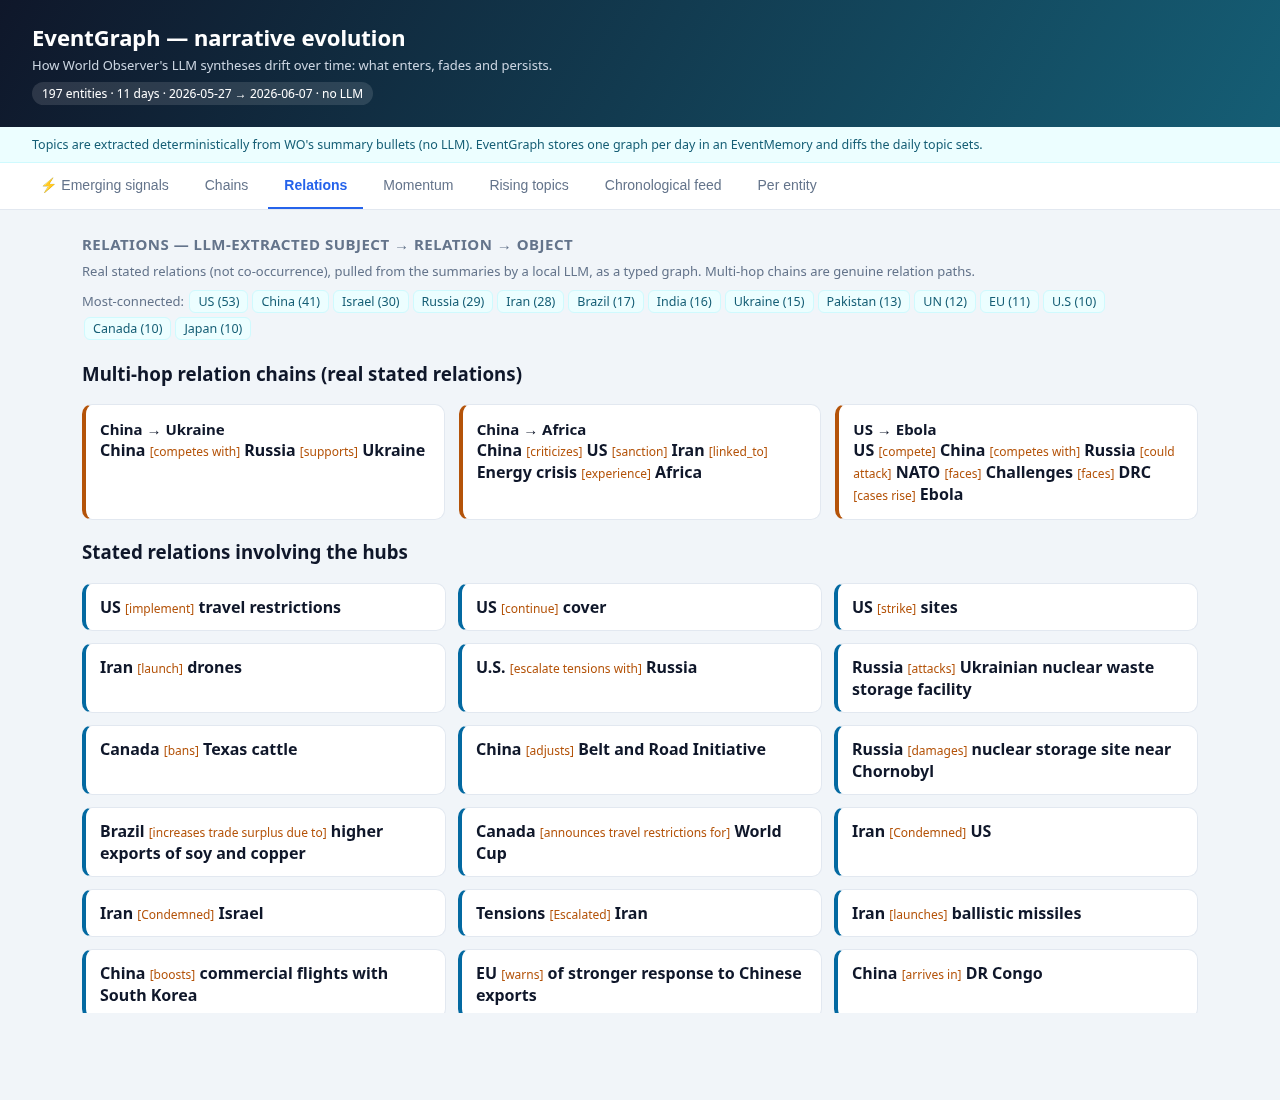
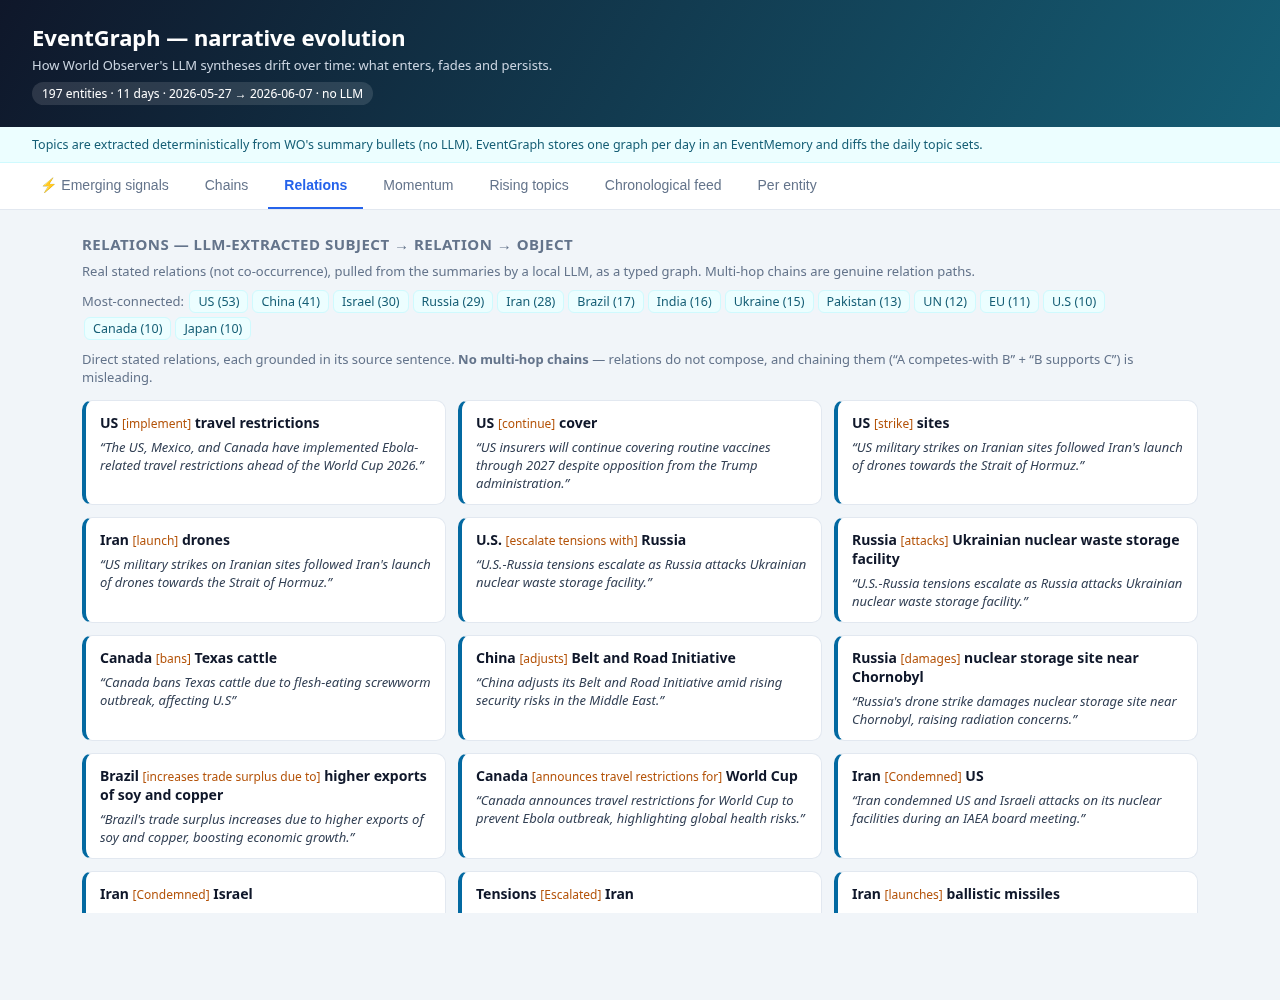
fix: drop misleading multi-hop relation chains; ground direct relations
Caught by review: the chain "China —competes with→ Russia —supports→ Ukraine" is
doubly broken — (1) "Russia supports Ukraine" is a context-stripped extraction
error (from the Austria summary; the real ukraine_russia summary says Russia
*attacks* Ukraine), and (2) relations don't compose: A-rel-B + B-rel-C implies
nothing about A→C. The arrow lied.

- Removed multi-hop "chains" from the report and the dashboard Relations tab.
- Every direct relation is now GROUNDED in its source sentence (ground() /
  grounded_relations()), so extraction errors are visible and verifiable.
- relation_graph.py --between kept as a raw graph utility but clearly labelled
  "connectivity, not implication — relations do not compose".

Honest: LLM relation extraction is useful for *direct* grounded relations, not
for transitive multi-hop reasoning.

diff --git a/examples/relation_graph.py b/examples/relation_graph.py
@@ -13,16 +13,60 @@ from __future__ import annotations
 
 import argparse
 import json
+import re
 import sys
 from itertools import pairwise
 from pathlib import Path
 
 sys.path.insert(0, str(Path(__file__).parent))
 
+from narrative_evolution import DATA as NARRATIVE_DATA
+
 from eventgraph import Actor, EventGraph, Relation, RelationType
 
 DATA = Path(__file__).parent / "data" / "world_observer_relations.json"
 REPORT = Path("reports") / "world_observer_relations.md"
+
+_NARR: dict[str, dict[str, str]] | None = None
+
+
+def _narratives() -> dict[str, dict[str, str]]:
+    global _NARR
+    if _NARR is None:
+        hist = json.loads(NARRATIVE_DATA.read_text(encoding="utf-8"))
+        _NARR = {e["key"]: e["by_day"] for e in hist}
+    return _NARR
+
+
+def ground(triple: dict) -> str:
+    """The source sentence behind a triple — lets you verify it (and catch errors)."""
+    text = _narratives().get(triple["source"], {}).get(triple["day"], "")
+    chunks = [" ".join(c.split()) for c in re.split(r"(?:\n|- |\. )", text) if c.strip()]
+    both = [c for c in chunks if triple["subject"] in c and triple["object"] in c]
+    one = [c for c in chunks if triple["subject"] in c]
+    pick = (both or one or [""])[0]
+    return pick[:200]
+
+
+def grounded_relations(
+    triples: list[dict], n: int = 24, *, involving: set[str] | None = None
+) -> list[dict]:
+    """Direct relations with their source sentence; optionally filtered to hub entities."""
+    out: list[dict] = []
+    for t in triples:
+        if (
+            involving is not None
+            and t["subject"].lower() not in involving
+            and t["object"].lower() not in involving
+        ):
+            continue
+        snippet = ground(t)
+        if not snippet:
+            continue
+        out.append({**t, "snippet": snippet})
+        if len(out) >= n:
+            break
+    return out
 
 
 def _norm(name: str) -> str:
@@ -126,9 +170,11 @@ def main() -> None:
         except nx.NetworkXNoPath:
             print(f"No relation chain links {g.label(sa)} and {g.label(sb)}.")
             return
-        print(f"\nRelation chain  {g.label(sa)} -> {g.label(sb)}:")
+        print(f"\nGraph path  {g.label(sa)} -> {g.label(sb)}:")
         for x, y in pairwise(path):
             print(f"  {g.label(x)}  --[{_edge_label(g, x, y)}]->  {g.label(y)}")
+        print("\n  ⚠ This is graph CONNECTIVITY, not implication. Relations do NOT compose:")
+        print("    read each edge literally; the end-to-end path means nothing on its own.")
         return
 
     hubs = top_hubs(g, args.top)
@@ -136,24 +182,29 @@ def main() -> None:
     for label, c in hubs:
         print(f"  {label}  ({c} relations)")
 
-    print("\nSample stated relations:")
-    for t in triples[: args.top]:
-        print(f"  {t['subject']}  --[{t['relation']}]->  {t['object']}")
+    grounded = grounded_relations(triples, args.top, involving={lbl.lower() for lbl, _ in hubs})
+    print("\nGrounded stated relations (with source sentence):")
+    for t in grounded:
+        print(f"  {t['subject']} --[{t['relation']}]-> {t['object']}")
+        print(f"     “{t['snippet']}”")
 
     lines = [
         "# World Observer — relation graph (LLM-extracted)\n",
-        f"_{len(triples)} stated relations from {g.raw.number_of_edges()} edges over "
-        f"{len(g)} entities, extracted as subject→relation→object triples by a local LLM "
-        "(not co-occurrence). Non-deterministic; grounded in WO's summaries._\n",
+        f"_{len(triples)} stated relations over {len(g)} entities, extracted as "
+        "subject→relation→object triples by a local LLM (not co-occurrence). Each is "
+        "**grounded** in its source sentence so you can verify it — LLM extraction is "
+        "imperfect (it can strip context/negation), so the grounding matters._\n",
+        "> Note: multi-hop *chains* are deliberately omitted — relations do not compose "
+        "(`A competes-with B` + `B supports C` implies nothing about A→C). Only direct, "
+        "grounded relations are reported.\n",
         "## Most-connected entities\n",
     ]
     lines += [f"- **{label}** — {c} relations" for label, c in hubs]
-    lines.append("\n## Example relation chains\n")
-    for a, b in [("China", "Ukraine"), ("Iran", "Israel"), ("China", "Africa"), ("US", "Ebola")]:
-        steps = chain(g, a, b)
-        if steps:
-            txt = "  →  ".join([steps[0][0]] + [f"[{r}] {y}" for _, r, y in steps])
-            lines.append(f"- **{a} → {b}:** {txt}")
+    lines.append("\n## Grounded stated relations\n")
+    for t in grounded_relations(triples, 40, involving={lbl.lower() for lbl, _ in hubs}):
+        lines.append(
+            f"- **{t['subject']} —[{t['relation']}]→ {t['object']}**  \n  > {t['snippet']}"
+        )
     REPORT.parent.mkdir(parents=True, exist_ok=True)
     REPORT.write_text("\n".join(lines) + "\n", encoding="utf-8")
     print(f"\nMarkdown report written to {REPORT}")

diff --git a/examples/build_narrative_dashboard.py b/examples/build_narrative_dashboard.py
@@ -35,8 +35,7 @@ from narrative_evolution import (
 )
 from narrative_llm_brief import _prompt, ollama
 from relation_graph import build as build_relations
-from relation_graph import chain as relation_chain
-from relation_graph import load_triples, top_hubs
+from relation_graph import grounded_relations, load_triples, top_hubs
 
 OUT_PATH = Path("reports") / "eventgraph_narrative_dashboard.html"
 SPOTLIGHT = (
@@ -177,7 +176,7 @@ def main() -> None:
         or '<p class="hint">No multi-signal chains at the current threshold.</p>'
     )
 
-    # relation graph (LLM-extracted typed relations: subject → relation → object)
+    # relation graph (LLM-extracted typed relations, grounded; no misleading chains)
     triples = load_triples()
     if triples:
         rg, _ = build_relations(triples)
@@ -186,39 +185,18 @@ def main() -> None:
         hub_chips = "".join(
             f'<span class="chip2">{html.escape(label)} ({c})</span>' for label, c in hubs
         )
-        chain_cards = ""
-        for a, b in [
-            ("China", "Ukraine"),
-            ("Iran", "Israel"),
-            ("China", "Africa"),
-            ("US", "Ebola"),
-            ("Russia", "NATO"),
-        ]:
-            steps = relation_chain(rg, a, b)
-            if steps and len(steps) >= 2:
-                seq = f"<b>{html.escape(steps[0][0])}</b>"
-                for _, rel, y in steps:
-                    seq += f' <span class="rel">[{html.escape(rel)}]</span> <b>{html.escape(y)}</b>'
-                chain_cards += (
-                    f'<div class="chain"><div class="chain-title">{a} → {b}</div>{seq}</div>'
-                )
-        rel_cards = ""
-        shown = 0
-        for t in triples:
-            if shown >= 24:
-                break
-            if t["subject"].lower() in hub_names or t["object"].lower() in hub_names:
-                rel_cards += (
-                    f'<div class="hl"><b>{html.escape(t["subject"])}</b> '
-                    f'<span class="rel">[{html.escape(t["relation"])}]</span> '
-                    f"<b>{html.escape(t['object'])}</b></div>"
-                )
-                shown += 1
+        rel_cards = "".join(
+            f'<div class="hl"><div class="hl-pair"><b>{html.escape(t["subject"])}</b> '
+            f'<span class="rel">[{html.escape(t["relation"])}]</span> '
+            f"<b>{html.escape(t['object'])}</b></div>"
+            f'<div class="hl-snip">“{html.escape(t["snippet"])}”</div></div>'
+            for t in grounded_relations(triples, 30, involving=hub_names)
+        )
         relations_html = (
             f'<p class="hint">Most-connected: {hub_chips}</p>'
-            f'<h3 class="section">Multi-hop relation chains (real stated relations)</h3>'
-            f'<div class="chains">{chain_cards}</div>'
-            f'<h3 class="section">Stated relations involving the hubs</h3>'
+            f'<p class="hint">Direct stated relations, each grounded in its source sentence. '
+            f"<b>No multi-hop chains</b> — relations do not compose, and chaining them "
+            f"(“A competes-with B” + “B supports C”) is misleading.</p>"
             f'<div class="hls">{rel_cards}</div>'
         )
     else:

diff --git a/examples/extract_relations.py b/examples/extract_relations.py
@@ -85,8 +85,9 @@ def main() -> None:
             if key in seen:
                 continue
             seen.add(key)
-            relations.append({"subject": subj, "relation": rel, "object": obj,
-                              "source": e["key"], "day": day})
+            relations.append(
+                {"subject": subj, "relation": rel, "object": obj, "source": e["key"], "day": day}
+            )
         if i % 25 == 0:
             print(f"  {i}/{len(entities)} entities, {len(relations)} relations")
 